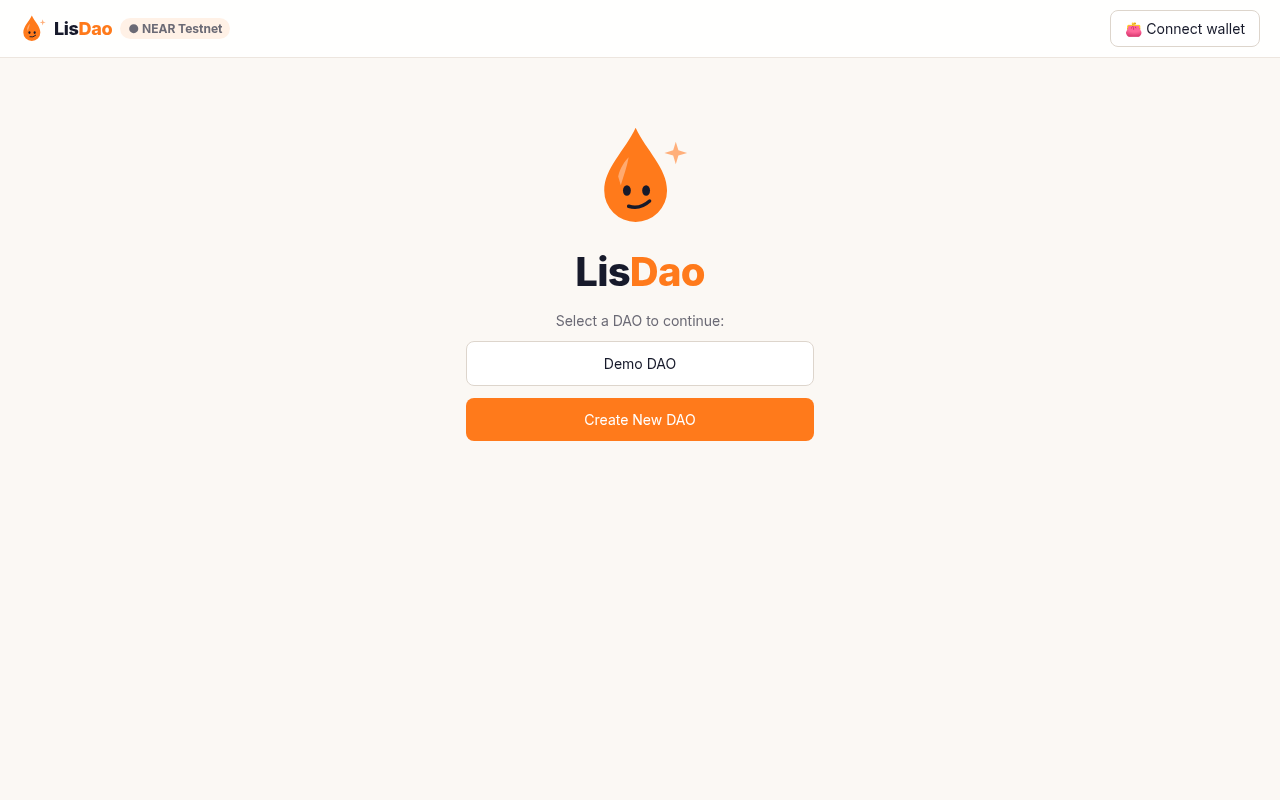
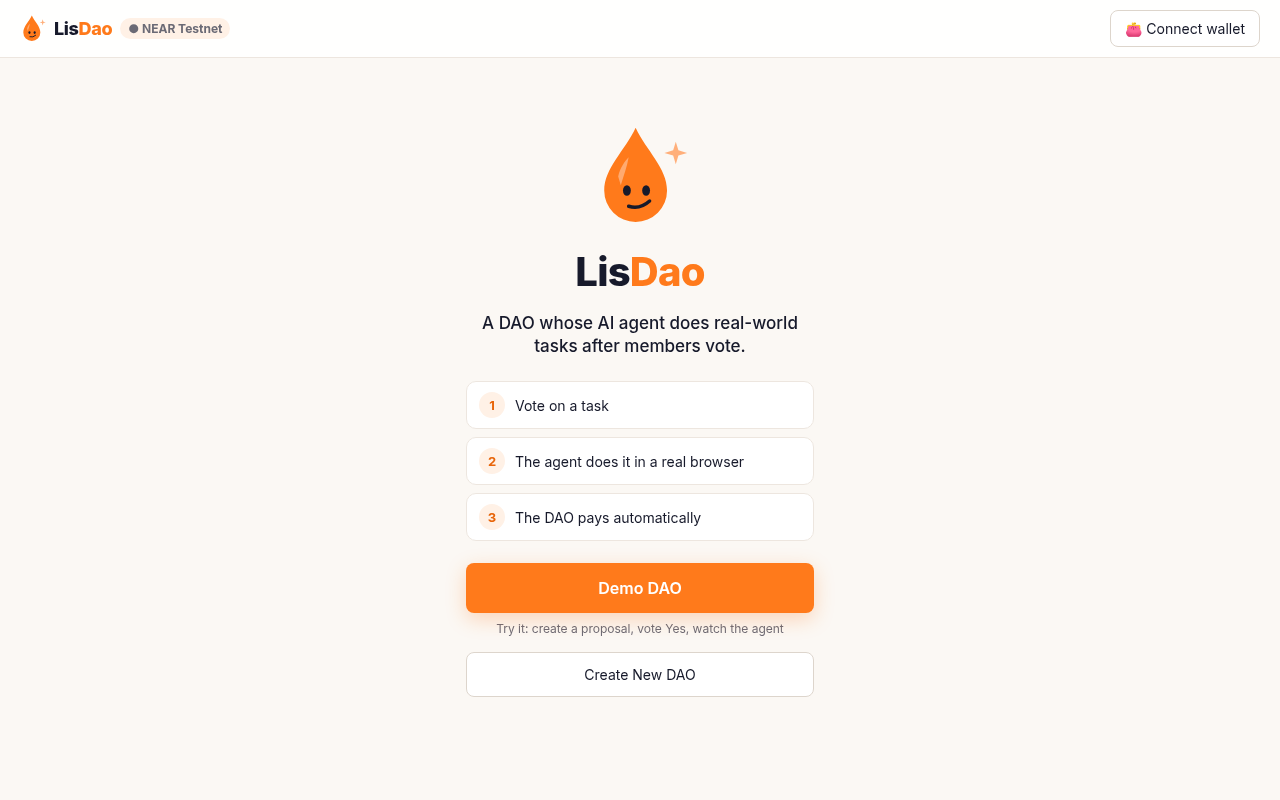
UI: landing pitch + 3 steps, Demo DAO primary, step indicator, next-step hints, soft animations, mobile layout; wallet setup no longer waits on RPC

Changed region(s): [[0.3438, 0.375, 0.6562, 0.5938], [0.3438, 0.6875, 0.6562, 0.875], [0.4062, 0.625, 0.5625, 0.6562]]

diff --git a/web/app/page.js b/web/app/page.js
@@ -51,6 +51,13 @@ function Agent({ dao, p, onClose }) {
     <div style={{ padding: 10 }}><button className="btn full" onClick={onClose}>Close</button></div></div>;
 }
 
+const STAGES = ["Demo", "Proposal", "Vote", "Agent", "Paid"];
+function Stepper({ at }) {
+  return <div className="stepper" aria-label="Progress">{STAGES.map((n, i) =>
+    <div key={n} className={"st" + (i < at || at >= STAGES.length ? " done" : "") + (i === Math.min(at, STAGES.length - 1) ? " now" : "")}><span>{i < at ? "✓" : i + 1}</span><em>{n}</em></div>)}</div>;
+}
+const Next = ({ children }) => <div className="next fade">→ {children}</div>;
+
 export default function Home() {
   const [sel, setSel] = useState(); const [modal, setModal] = useState(); const [acct, setAcct] = useState();
   const [daos, setDaos] = useState([]); const [cur, setCur] = useState(null); const [props, setProps] = useState([]);
@@ -59,14 +66,16 @@ export default function Home() {
   const [ready, setReady] = useState(false); const [loadingP, setLoadingP] = useState(false); const [toast, setToast] = useState(""); const [dismissed, setDismissed] = useState(null);
   const [f, setF] = useState({ name: "", members: "", quorum: 51, title: "", desc: "" });
 
-  useEffect(() => { (async () => {
-    const q = new URLSearchParams(location.search);
+  useEffect(() => { const q = new URLSearchParams(location.search);
+    (async () => {
     try {
       await load();
       if (q.get("dao")) { const d = +q.get("dao"); await open(d); if (q.get("p")) await showP(d, +q.get("p")); }
       if (q.get("pane")) setPane(q.get("pane")); if (q.get("agent")) setAgent(true);
     } catch (e) { console.error("init", e); }
     setReady(true);
+    })();
+    (async () => {
     if (q.get("e2e")) { // test mode: fake connected wallet that records txs instead of sending
       window.__txs = []; const fake = { wallet: async () => ({ signAndSendTransaction: async t => { window.__txs.push(t); return {}; } }), disconnect: async () => {} };
       setSel(fake); setModal({ show: () => { window.__connectClicked = true; setAcct("e2e-user.testnet"); } }); setAcct(q.get("e2e") === "out" ? undefined : "e2e-user.testnet"); return;
@@ -121,9 +130,14 @@ export default function Home() {
         <button className="btn sm" onClick={async () => { await sel.disconnect().catch(() => {}); setAcct(undefined); setMenu(false); }}>Sign out</button></div>}</div></div>;
 
   if (cur === null && pane !== "create-dao") return <>{nav}<div className="center fade">
-    <div><Drop size={96} /></div><h1 style={{ margin: "4px 0" }}><Wordmark size={40} /></h1><div className="muted">Select a DAO to continue:</div>
-    <button className="btn full big" onClick={() => open(0)}>Demo DAO</button>
-    <button className="btn p full big" onClick={() => setPane("create-dao")}>Create New DAO</button></div>{toast && <div className="toast">{toast}</div>}</>;
+    <div><Drop size={96} /></div><h1 style={{ margin: "4px 0" }}><Wordmark size={40} /></h1><p className="pitch">A DAO whose AI agent does real-world tasks after members vote.</p>
+    <ol className="how">
+      <li style={{ animationDelay: ".05s" }}><b>1</b>Vote on a task</li>
+      <li style={{ animationDelay: ".15s" }}><b>2</b>The agent does it in a real browser</li>
+      <li style={{ animationDelay: ".25s" }}><b>3</b>The DAO pays automatically</li></ol>
+    <button className="btn p full big glow" onClick={() => open(0)}>Demo DAO</button>
+    <div className="hint">Try it: create a proposal, vote Yes, watch the agent</div>
+    <button className="btn full" onClick={() => setPane("create-dao")}>Create New DAO</button></div>{toast && <div className="toast">{toast}</div>}</>;
 
   if (pane === "create-dao") return <>{nav}<div className="center fade" style={{ textAlign: "left" }}><div className="panel">
     <h2>Create New DAO</h2>
@@ -141,8 +155,10 @@ export default function Home() {
   const used = votes.length ? votes.reduce((s, [a]) => s + (dao.members.find(m => m[0] === a)?.[1] || 0), 0) : 0;
   const myW = dao.members.find(m => m[0] === acct)?.[1] || 0;
   const pct = p ? Math.round(100 * p.yes / dao.total_weight) : 0;
+  const stage = pane === "create" ? 1 : pane === "proposal" && p ? ({ Active: 2, Approved: 2, Executing: 3, Executed: 5, Failed: 3, Rejected: 2 }[p.status] ?? 2) : 0;
 
   return <>{nav}{toast && <div className="toast">{toast}</div>}{agent && p && <Agent dao={dao} p={p} onClose={() => { setAgent(false); setDismissed(pid); }} />}
+    <div className="wrap"><Stepper at={stage} /></div>
     <div className="grid">
       <div className="panel">
         <div className="row"><h2 style={{ margin: 0 }}>{dao.name}</h2><select className="btn sm" value={dao.id} onChange={e => e.target.value === "home" ? (setCur(null), setPane("summary")) : open(+e.target.value)} aria-label="Switch DAO">
@@ -155,6 +171,7 @@ export default function Home() {
       </div>
       <div className="panel fade" key={pane + pid}>
         {pane === "summary" && <>
+          <Next>Create a proposal to start <button className="btn p sm" onClick={() => setPane("create")}>Create proposal</button></Next>
           <h2>Summary</h2>
           {[["Name", dao.name], ["Created At", "DAO #" + dao.id + " on NEAR testnet"], ["Creator Account", dao.owner], ["Balance in NEAR", yocto(dao.treasury)], ["Agent", dao.agent], ["Quorum", dao.quorum_pct + "%"]]
             .map(([k, v]) => <div className="kv" key={k}><b>{k}</b><span>{v}</span></div>)}
@@ -167,6 +184,7 @@ export default function Home() {
           </tbody></table></>}
         {pane === "create" && <>
           <div className="row"><h2>Create Proposal</h2><button className="btn sm" onClick={() => setPane("summary")}>← Back</button></div>
+          <Next>Describe the task in plain English, then create it</Next>
           <div className="seg"><button className={"btn" + (f.kind !== "transfer" ? " p" : "")} onClick={() => setF({ ...f, kind: "agent" })}>AI agent task</button>
             <button className={"btn" + (f.kind === "transfer" ? " p" : "")} onClick={() => setF({ ...f, kind: "transfer" })}>Send NEAR</button></div>
           <label>Proposal Title</label><input placeholder="Donate to the water project" value={f.title} onChange={e => setF({ ...f, title: e.target.value })} />
@@ -192,6 +210,10 @@ export default function Home() {
               setProps(ps => ps.some(x => x.id === n) ? ps : [...ps, optimistic]); setPid(n); setVotes([]); setPane("proposal"); } }}>{busy ? "Creating..." : "Create Proposal"}</button></>}
         {pane === "proposal" && p && <>
           <div className="row"><h1 style={{ marginTop: 0 }}>{p.title}</h1><button className="btn sm" onClick={() => setPane("summary")}>← Back</button></div>
+          {p.status === "Active" && <Next>{votes.some(v => v[0] === acct) ? "Waiting for more Yes votes" : "Vote Yes to send it to the agent"}</Next>}
+          {p.status === "Executing" && <Next><span className="pulse" /> The agent is working…</Next>}
+          {p.status === "Executed" && <Next>Done. The DAO paid on-chain {p.result && <span className="muted"> · see receipt below</span>}</Next>}
+          {p.status === "Approved" && <Next>Passed. Execute the transfer</Next>}
           <p className="muted">{p.action.AgentTask ? `${p.action.AgentTask.instructions} · cap ${yocto(p.action.AgentTask.max_spend)} NEAR` : `Transfer ${yocto(p.action.Transfer.amount)} NEAR to ${p.action.Transfer.receiver_id}`}</p>
           <div className="panel" style={{ background: "#FFFBF7", boxShadow: "none", border: "1px solid var(--line)" }}>
             {[["Status", p.status === "Active" ? "Voting In Progress" : p.status === "Executing" ? "Passed · Agent executing in browser" : p.status === "Executed" ? "Passed · Executed" : p.status],

diff --git a/web/app/globals.css b/web/app/globals.css
@@ -42,3 +42,27 @@ input:focus,textarea:focus{outline:none;border-color:var(--o);box-shadow:0 0 0 3
 @media (max-width:760px){.agent{width:auto}}
 .shot{max-height:46vh;object-fit:contain;object-position:top;background:#F2F7FB;position:sticky;top:0;z-index:1}
 .btn.big{padding:15px;font-size:16px;font-weight:600}.seg{display:flex;gap:8px;margin:8px 0 16px}.seg .btn{flex:1}
+
+.pitch{font-size:17px;line-height:1.4;margin:0 0 4px;color:var(--navy);font-weight:500}
+.how{list-style:none;padding:0;margin:6px 0 10px;display:flex;flex-direction:column;gap:8px;text-align:left}
+.how li{display:flex;align-items:center;gap:10px;background:#fff;border:1px solid var(--line);border-radius:10px;padding:10px 12px;animation:fade .5s ease both}
+.how b{width:26px;height:26px;border-radius:50%;background:var(--peachbg);color:var(--o2);display:grid;place-items:center;font-size:13px;flex-shrink:0}
+.hint{font-size:12px;color:var(--muted);margin:-4px 0 4px}
+.glow{position:relative;overflow:hidden;box-shadow:0 6px 20px rgba(255,122,27,.28)}
+.glow::after{content:"";position:absolute;inset:0;background:linear-gradient(110deg,transparent 30%,rgba(255,255,255,.35) 50%,transparent 70%);transform:translateX(-100%);animation:shine 3.2s ease-in-out infinite}
+@keyframes shine{60%,100%{transform:translateX(100%)}}
+.wrap{max-width:1200px;margin:0 auto;padding:12px 16px 0}
+.stepper{display:flex;gap:4px;background:#fff;border-radius:999px;padding:6px;box-shadow:0 1px 3px rgba(23,26,43,.06);overflow-x:auto}
+.st{flex:1;display:flex;align-items:center;justify-content:center;gap:6px;padding:6px 8px;border-radius:999px;color:var(--muted);font-size:12px;white-space:nowrap;transition:background .4s,color .4s}
+.st span{width:20px;height:20px;border-radius:50%;display:grid;place-items:center;font-size:11px;background:#F1EBE4;transition:background .4s,color .4s}
+.st em{font-style:normal}.st.done{color:#065F46}.st.done span{background:#D1FAE5}
+.st.now{background:var(--peachbg);color:#B4500B;font-weight:600}.st.now span{background:var(--o);color:#fff;animation:ping 1.6s ease-out infinite}
+@keyframes ping{0%{box-shadow:0 0 0 0 rgba(255,122,27,.5)}100%{box-shadow:0 0 0 8px rgba(255,122,27,0)}}
+.next{display:flex;align-items:center;gap:10px;flex-wrap:wrap;background:var(--peachbg);color:#8A3D08;border-radius:10px;padding:10px 12px;margin-bottom:14px;font-weight:600}
+.pulse{width:10px;height:10px;border-radius:50%;background:var(--o);animation:ping 1.2s ease-out infinite;display:inline-block}
+.card{box-shadow:0 1px 0 rgba(23,26,43,.02)}.card:hover{transform:translateY(-1px)}
+@media (max-width:760px){.wrap{padding:8px 10px 0}.st em{display:none}.st.now em{display:inline}}
+
+.receipt,.kv span,.step{overflow-wrap:anywhere;word-break:break-word}
+.st.done.now{background:#D1FAE5;color:#065F46}.st.done.now span{background:#10B981;color:#fff;animation:none}
+@media (max-width:760px){body{overflow-x:hidden}.grid>.panel:nth-child(2){order:-1}}

diff --git a/web/e2e-buttons.py b/web/e2e-buttons.py
@@ -26,8 +26,8 @@ with sync_playwright() as p:
     m.click("text=Demo DAO"); m.wait_for_selector("text=Create New Proposal", timeout=15000); m.wait_for_timeout(800)
     m.click("text=Create New Proposal"); m.fill("input >> nth=0","Donate to the water project"); m.fill("textarea","Donate 0.1 NEAR to the water project"); m.click("button:has-text('Create Proposal')"); m.wait_for_timeout(600)
     a=txs(m)[-1]["actions"][0]["params"]; ok("Create proposal (AI agent task)", a["methodName"]=="propose" and a["args"]["action"]["AgentTask"]["max_spend"]=="100000000000000000000000")
-    ok("After create -> proposal screen with Vote Yes", m.locator("text=Vote Yes").count()>0)
-    m.click("text=Vote Yes"); m.wait_for_timeout(600); a=txs(m)[-1]["actions"][0]["params"]; ok("Vote Yes", a["methodName"]=="vote" and a["args"]["approve"]==True)
+    ok("After create -> proposal screen with Vote Yes", m.locator("button:has-text('Vote Yes')").count()>0)
+    m.click("button:has-text('Vote Yes')"); m.wait_for_timeout(600); a=txs(m)[-1]["actions"][0]["params"]; ok("Vote Yes", a["methodName"]=="vote" and a["args"]["approve"]==True)
     m.click("text=← Back"); m.wait_for_timeout(300); m.click("text=Create New Proposal"); m.click("text=Send NEAR"); m.fill("input >> nth=0","Pay helper")
     m.fill("input[placeholder='friend.testnet']","amara.testnet"); m.fill("input[placeholder='0.1']","0.2"); m.click("button:has-text('Create Proposal')"); m.wait_for_timeout(600)
     a=txs(m)[-1]["actions"][0]["params"]; ok("Create proposal (Send NEAR)", a["args"]["action"].get("Transfer",{}).get("amount")=="200000000000000000000000")
